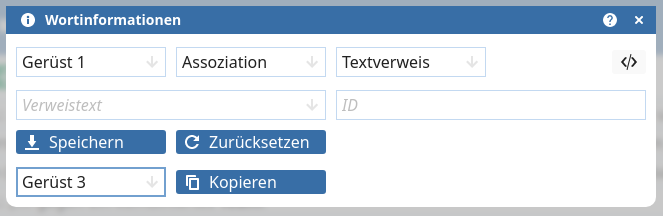
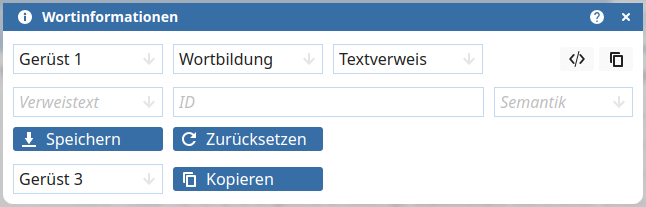
Feature: die Wortinformationen können nun kopiert werden, um sie z. B. in eine Office-Datei einzufügen

diff --git a/js/app/redWi.js b/js/app/redWi.js
@@ -11,6 +11,14 @@ const redWi = {
     se: [ "Cluster", "Synonym", "Heteronym", "Paronym", "Hyponym", "Hyperonym", "Meronym", "Holonym", "Gegensatz", "Kohyponym" ],
   },
 
+  // Kategorien-Map
+  vtMap: {
+    Wortverbindung: "Wortverbindungen",
+    Wortbildung: "Wortbildungen",
+    Wortfeld: "Wortfeld",
+    Wortfeldartikel: "Wortfeldartikel",
+  },
+
   // Dropdown: Verweistextvorschläge sammeln
   dropdownVerweistexte () {
     const lemmata = helfer.lemmaliste();
@@ -368,12 +376,6 @@ const redWi = {
     cont.parentNode.classList.remove("aus");
     copy.classList.add("aus");
     cont.replaceChildren();
-    const hTxt = {
-      Wortverbindung: "Wortverbindungen",
-      Wortbildung: "Wortbildungen",
-      Wortfeld: "Wortfeld",
-      Wortfeldartikel: "Wortfeldartikel",
-    };
     let h = "";
     for (const i of data.rd.wi) {
       // falsches Bedeutungsgerüst
@@ -384,7 +386,7 @@ const redWi = {
       if (h !== i.vt) {
         const h3 = document.createElement("h3");
         cont.appendChild(h3);
-        h3.textContent = hTxt[i.vt];
+        h3.textContent = redWi.vtMap[i.vt];
         h = i.vt;
       }
       // Eintrag
@@ -560,6 +562,62 @@ const redWi = {
         return;
       }
       redXml.datensatz({ xmlDatensatz });
+    });
+  },
+
+  // Wortinformationen in Zwischenablage kopieren
+  //   icon = Element
+  //     (das XML-Icon)
+  clipboard ({ icon }) {
+    icon.addEventListener("click", evt => {
+      evt.preventDefault();
+
+      // Wortinformationen vorhanden?
+      const gn = document.getElementById("red-wi-gn").value.match(/[0-9]+/)[0];
+      const ds = data.rd.wi.filter(i => i.gn === gn);
+      if (!ds.length) {
+        dialog.oeffnen({
+          typ: "alert",
+          text: "Sie haben noch keine Wortinformationen eingegeben.",
+        });
+        return;
+      }
+
+      // Kategorien vorbereiten
+      const cats = {};
+      for (const i of redWi.dropdown.vt) {
+        cats[i] = [];
+      }
+
+      // Kategorien füllen
+      for (const i of ds) {
+        let text = i.xl.replace(/<.+?>/g, "").replace(/^\s+|\s+$/g, "");
+        const semantik = i.xl.match(/ Typ="(.+?)"/)?.[1] || "";
+        if (semantik) {
+          text += ` (${semantik})`;
+        }
+        cats[i.vt].push(text);
+      }
+
+      // Kopieren vorbereiten
+      let text = "";
+      let html = "";
+      for (const [ k, v ] of Object.entries(cats)) {
+        if (!v.length) {
+          continue;
+        }
+        text += `\n\n${redWi.vtMap[k]}: ${v.join(", ")}`;
+        html += `\n<p><i>${redWi.vtMap[k]}:</i> ${v.join(", ")}</p>`;
+      }
+      text = text.trim();
+      html = html.trim();
+
+      // Kopieren ausführen
+      modules.clipboard.write({
+        text,
+        html,
+      });
+      helfer.animation("zwischenablage");
     });
   },
 };

diff --git a/win/handbuch.html b/win/handbuch.html
@@ -5226,6 +5226,8 @@ Gerüst 2&nbsp;&gt; Gerüst 1</pre>
             <p>Fährt man mit der Maus über einen der Einträge erscheint das Icon <img src="../img/xml.svg" width="20" height="20" alt="">. Mit ihm kann der jeweilige Eintrag an das <b><abbr title="Extensible Markup Language" lang="en">XML</abbr>-Redaktionsfenster</b> geschickt werden. Befindet sich der Eintrag bereits im Fenster, wird er dort durch die neue Version ersetzt. Andernfalls wird er hinzugefügt. Die Sortierung der Einträge im <a href="#menueRedaktion-xml">Redaktionsfenster</a> bleibt dabei erhalten.</p>
 
             <p>Dasselbe Icon gibt es – immer sichtbar – noch einmal im oberen rechten Bereich des Fenster. Mit ihm können <em>alle</em> Wortinformationen des eingestellten Bedeutungsgerüsts und nicht nur ausgewählte Einträge an das Redaktionsfenster geschickt werden. Dabei werden allerdings alle Wortinformationen, die sich bereits im Redaktionsfenster befinden, überschrieben. Außerdem gehen spezielle Sortierungen verloren, die sie dort <abbr title="eventuell">evtl.</abbr> vorgenommen haben.</p>
+
+            <p>Mit dem daneben befindlichen Icon <img src="../img/kopieren.svg" width="20" height="20" alt=""> können die Wortinformationen <b>in die Zwischenablage kopiert</b> werden, um sie <abbr title="zum Beispiel">z.&nbsp;B.</abbr> in eine Office-Datei einzufügen.</p>
           </div>
 
           <p class="erklaerung-icon-menues" id="menueRedaktion-xml"><img src="../img/xml.svg" width="24" height="24" alt=""><abbr title="Extensible Markup Language" lang="en">XML-Fenster</abbr></p>

diff --git a/css/app/liste.css b/css/app/liste.css
@@ -416,7 +416,8 @@ p.no-indent + .filter-baum, /* betrifft Verschiedenes > Filterlogik */
 .beleg-opt-block a,
 .filter-ctrl-block a,
 .liste-opt-block a,
-#red-wi-xml {
+#red-wi-xml,
+#red-wi-clipboard {
   display: inline-block;
   border-right: 1px solid var(--linie);
   padding: 0 5px;
@@ -444,7 +445,8 @@ p.no-indent + .filter-baum, /* betrifft Verschiedenes > Filterlogik */
 .filter-ctrl-block a:last-child,
 .liste-opt-block a:last-child,
 .liste-opt-block:not(.liste-opt-anzeige-an, :hover, :focus-within) a.liste-opt-anzeige-letztes,
-#red-wi-xml {
+#red-wi-xml,
+#red-wi-clipboard {
   border-right: 0;
   border-top-right-radius: 3px;
   border-bottom-right-radius: 3px;
@@ -454,7 +456,8 @@ p.no-indent + .filter-baum, /* betrifft Verschiedenes > Filterlogik */
 .beleg-opt-block a:focus,
 .filter-ctrl-block a:focus,
 .liste-opt-block a:focus,
-#red-wi-xml:focus {
+#red-wi-xml:focus,
+#red-wi-clipboard:focus {
   background-color: var(--hintergrund);
   color: var(--farbe);
 }
@@ -476,7 +479,8 @@ p.no-indent + .filter-baum, /* betrifft Verschiedenes > Filterlogik */
 .beleg-opt-block svg path,
 .filter-ctrl-block svg path,
 .liste-opt-block svg path,
-#red-wi-xml svg path {
+#red-wi-xml svg path,
+#red-wi-clipboard svg path {
   fill: currentcolor;
 }
 

diff --git a/index.html b/index.html
@@ -1502,6 +1502,9 @@
           ><a href="#" id="red-wi-xml" title="Wortinformationen an XML-Fenster"
             ><svg version="1.1" xmlns="http://www.w3.org/2000/svg" width="24" height="24" viewBox="0 0 24 24"><path transform="translate(4 4)" d="m9.5 0-4 15.754 1 0.246 4-15.754-1-0.246zm-5.2461 3-3.9746 4.6445-0.2793 0.3555 0.2793 0.3555 3.9746 4.6445 1.7461-0.709-3.6641-4.291 3.6641-4.291-1.7461-0.709zm7.4921 0-1.746 0.709 3.664 4.291-3.664 4.291 1.746 0.709 3.975-4.6445 0.279-0.3555-0.279-0.3555-3.975-4.6445z"/></svg
           ></a
+          ><a href="#" id="red-wi-clipboard" title="Wortinformationen in Zwischenablage kopieren"
+            ><svg version="1.1" xmlns="http://www.w3.org/2000/svg" width="24" height="24" viewBox="0 0 24 24"><path transform="translate(4 4)" d="m3 1.0039s-1 0-1 1v9s0 1 1 1h1v-9h8v-1c0-1-1-1-1-1h-8zm3 3s-1 0-1 1v10c0 1 1 1 1 1h8s1-0.001006 1-1.0039v-9.9961c0-1-1-1-1-1h-8zm1 2h6v8h-6v-8z"/></svg
+          ></a
         ></p>
         <p class="input-text dropdown-cont" id="red-wi-text"
           ><input type="text" value="" placeholder="Verweistext" class="dropdown-feld" id="red-wi-text-tx"

diff --git a/win/changelog.html b/win/changelog.html
@@ -57,7 +57,7 @@
         <h3>Neue Funktionen</h3>
 
         <ul>
-          <li></li>
+          <li><a href="#menueRedaktion-wortinformationen" class="link-handbuch">Wortinformationen</a>: Mit dem neuen Icon <img src="../img/kopieren.svg" width="24" height="24" alt=""> können die Wortinformationen en bloc kopiert werden, um sie <abbr title="zum Beispiel">z.&nbsp;B.</abbr> in eine Office-Datei einzufügen.</li>
         </ul>
 
         <h3>Verbesserungen</h3>

diff --git a/css/app/overlays-redWi.css b/css/app/overlays-redWi.css
@@ -93,8 +93,14 @@
   margin-left: 0;
 }
 
-/* weitere Styles zu #red-wi-xml → liste.css */
+/* weitere Styles zu #red-wi-xml und #red-wi-clipboard → liste.css */
 #red-wi-xml {
+  position: absolute;
+  right: 39px;
+  top: 6px;
+}
+
+#red-wi-clipboard {
   position: absolute;
   right: 0;
   top: 6px;
